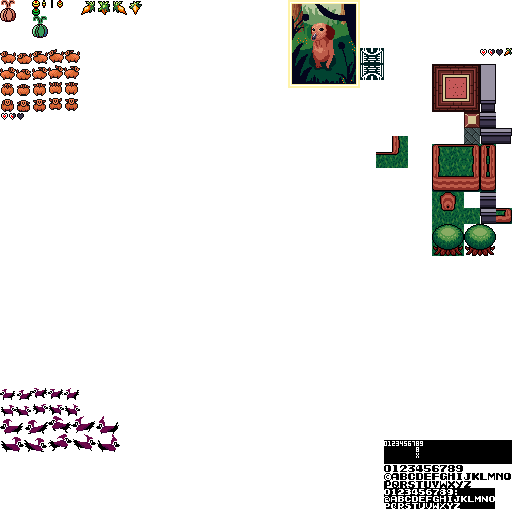
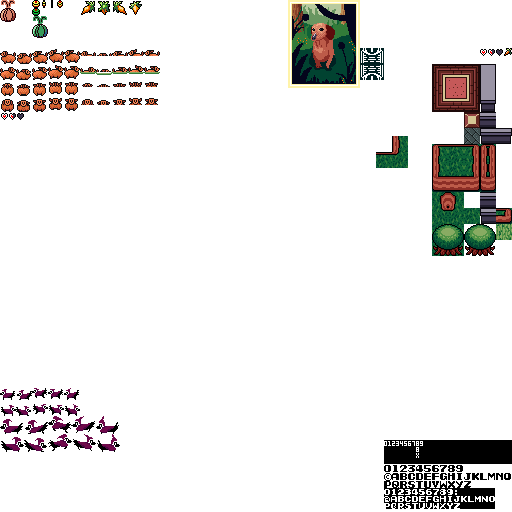
Add files via upload

Changed region(s): [[0.1562, 0.0938, 0.3125, 0.2188], [0.9688, 0.4375, 1.0, 0.4688]]

diff --git a/TileAndLevel.js b/TileAndLevel.js
@@ -10,19 +10,32 @@
 var levelData = [
 	[ //world 0
 		[//level 0
-			"4040404040404111",
-			"0040000224040111",
+			"1111111111111111",
+			"1111030111404001",
+			"1000000111000001",
+			"1040040000000001",
+			"1000000004000001",
+			"1000000040400001",
+			"1030400004000000",
+			"103000000004000",
+			"1030114000000001",
+			"1111111111111111",
+			"lost_woods"
+		],
+		[//level 1
+			"1111111111111111",
+			"1100333224040111",
 			"1104000220004111",
-			"1130400022000001",
-			"1105040002200000",
-			"1100004000000000",
-			"1000000000600404",
-			"1030303000004040",
+			"1130400025000001",
+			"1100040000000000",
+			"1105004000000000",
+			"0000000000001111",
+			"0030303000001111",
 			"1000000404040404",
 			"4040404040404040",
 			"lost_woods"
 		],
-		[//level 1
+		[//level 2
 			"1111111111111111",
 			"1100000000000111",
 			"1100333300000111",
@@ -59,7 +72,7 @@ class TileManager { //helper methods for Tile class.
 		this.addTheme("red_castle",432,64);
 		this.addTheme("lost_woods",432,144);
 		this.theme = this.getTheme();
-		this.numsLikeWalls = "14"; //which types of objects are treated as walls in getCostumeName();
+		this.numsLikeWalls = "1"; //which types of objects are treated as walls in getCostumeName();
 	}
 	
 	getCostume = function(row,col) {
@@ -130,7 +143,6 @@ class TileManager { //helper methods for Tile class.
 
 var tileManager = new TileManager();
 
-
 	class Tile extends Sprite{
 		constructor(x,y,costumeName,solid) {
 			super();
@@ -164,7 +176,7 @@ class Level {
 		console.log("level.init()");
 		
 		//resetting other objects
-		coins.coins = [];
+		coins.objs = [];
 		enemies.enemies = [];
 		
 		//resetting internal stuff
@@ -190,20 +202,26 @@ class Level {
 					
 				}
 				if (cell == 3) {
-					coins.addCoin(new Coin(col * 16,row * 16 + game.window.tly,1));
+					coins.add(new Coin(col * 16,row * 16 + game.window.tly,1));
 				}				
 				if (cell == 4) {
 					this.tiles[this.tiles.length - 1].solid = true;
 					this.tiles[this.tiles.length - 1].setSize(32,32);
-				this.tiles[this.tiles.length - 1].addCostume("tree",432,224,32,32);
-				this.tiles[this.tiles.length - 1].addCostume("tree_clear_bg",464,224,32,32);
-				this.tiles[this.tiles.length - 1].setCurrentCostume("tree");
+					this.tiles[this.tiles.length - 1].setHitbox(0,3,32,29);
+					
+					this.tiles[this.tiles.length - 1].addCostume("tree",432,224,32,32);
+					this.tiles[this.tiles.length - 1].addCostume("tree_clear_bg",464,224,32,32);
+					this.tiles[this.tiles.length - 1].setCurrentCostume("tree");
 				}
 				if (cell == 5) {
 					enemies.addEnemy(new JumpingKaidi(col * 16,row * 16 + game.window.tly));
 				}
 				if (cell == 6) {
 					enemies.addEnemy(new BigJumpingKaidi(col * 16,row * 16 + game.window.tly));
+				}
+				if (cell == 7) {
+					this.tiles[this.tiles.length - 1].addCostume("grass_tile",496,224,16,16);
+					this.tiles[this.tiles.length - 1].setCurrentCostume("grass_tile");
 				}
 			}
 		}

diff --git a/player.js b/player.js
@@ -9,8 +9,7 @@ class Player extends MovingSprite {
 		this.speed = 2;
 		this.size = 1;
 		this.setHP(3,3);
-		this.hitbox.tly = 4;
-		this.hitbox.height = 12;
+		this.setHitbox(1,8,14,12);
 		this.canLeaveScreen = true;
 		// ANIMATIONS ///////////////////////////////////////
 		this.addCostume("left_walk_0",0,48,16,16);
@@ -21,9 +20,21 @@ class Player extends MovingSprite {
 		this.addAnimation("right_walk",16,64,16,16,4,2);
 		this.addAnimation("up_walk",16,80,16,16,4,2);
 		this.addAnimation("down_walk",16,96,16,16,4,2);
+		/*
+		this.addCostume("grass_left_walk_0",64,48,16,16);
+		this.addCostume("grass_right_walk_0",64,64,16,16);
+		this.addCostume("grass_up_walk_0",64,80,16,16);
+		this.addCostume("grass_down_walk_0",64,96,16,16);
+		this.addAnimation("grass_left_walk",80,48,16,16,4,2);
+		this.addAnimation("grass_right_walk",80,64,16,16,4,2);
+		this.addAnimation("grass_up_walk",80,80,16,16,4,2);
+		this.addAnimation("grass_down_walk",80,96,16,16,4,2);
+		*/
+		
 		this.setCurrentCostume("right_walk_0");
 		this.visible = true;
 		this.invisLength = 60;
+		this.costumePrefix = "";
 		
 	}
 	
@@ -59,18 +70,18 @@ class Player extends MovingSprite {
 		if (oldv[0] != this.xv || oldv[1] != this.yv) { //if direction has changed
 		
 			if (this.xv > 0) {
-				this.setAnimation("right_walk");
+				this.setAnimation(this.costumePrefix + "right_walk");
 			} else if (this.xv < 0) {
-				this.setAnimation("left_walk");
+				this.setAnimation(this.costumePrefix + "left_walk");
 			}
 			else if (this.yv > 0) {
-				this.setAnimation("down_walk");
+				this.setAnimation(this.costumePrefix + "down_walk");
 			}
 			else if (this.yv < 0) {
-				this.setAnimation("up_walk");
+				this.setAnimation(this.costumePrefix + "up_walk");
 			} else {
 				this.animationActive = -1;
-				this.setCurrentCostume(nom + "_0");
+				this.setCurrentCostume(this.costumePrefix + nom + "_0");
 			}
 			
 
@@ -94,6 +105,7 @@ class Player extends MovingSprite {
 	
 	process = function() {
 		//console.log("player.process() called");
+		this.costumePrefix = "";
 		this.tick();
 		this.invisFrames();
 		this.healthProcess();

diff --git a/sprites.js b/sprites.js
@@ -19,7 +19,7 @@ class Sprite { //an assumption this class makes is that all costumes will be the
 	canLeaveScreen = false;
 	animations = [];
 	dead = false;
-	hitbox = {"tly":this.y,"w":this.width,"h":this.height}; //used so that the player's head can peep in front of walls sometimes
+	hitbox = {"x":0,"y":0,"w":this.width,"h":this.height}; //used so that the player's head can peep in front of walls sometimes
 	visible = true;
 	solid = false; //if true, MovingSprites can't overlap with it
 	
@@ -150,16 +150,24 @@ class Sprite { //an assumption this class makes is that all costumes will be the
 		}
 	}
 	
-	tick = function() { //use super() to call this method in any subclasses of Sprite - contains all frame-to-frame processes necessary
+	setHitbox = function(x,y,width,height) {
+		this.hitbox.x = x;
+		this.hitbox.y = y;
+		this.hitbox.width = width;
+		this.hitbox.height = height;
+	}
+	
+	tick = function() { //use this.tick() to call this method in any subclasses of Sprite - contains all frame-to-frame processes necessary
+		//this.updateHitbox();
 		this.animationProcess();
 	}
 	
 	isTouching = function(other) {
 		return (
 			this.x < other.x + other.width &&
-			this.x + this.width > other.x &&
-			this.y < other.y + other.height &&
-			this.y + this.height > other.y
+			this.x + this.width > other.x + other.hitbox.x &&
+			this.y + this.hitbox.y < other.y + other.height &&
+			this.y + this.hitbox.y + this.hitbox.height > other.y + other.hitbox.y
 		);
 	}
 }

diff --git a/CollisionHandler.js b/CollisionHandler.js
@@ -7,11 +7,11 @@ class CollisionHandler {
 	
 	playerCoin = function() {
 		//console.log("");
-		for (let i = 0; i < coins.coins.length; i++) {
+		for (let i = 0; i < coins.objs.length; i++) {
 			//console.log(player.isTouching(coins.coins[i]));
-			if (player.isTouching(coins.coins[i])) {
+			if (player.isTouching(coins.objs[i])) {
 				//console.log("coin found");
-				coins.coins.splice(i,1);
+				coins.objs.splice(i,1);
 				saveFile.carrots++;
 				return;
 			}
@@ -35,8 +35,15 @@ class CollisionHandler {
 	}
 	
 	wall = function(sprite) {
+		
 		for (let i = 0; i < level.tiles.length; i++) {
 			if (sprite == player) {
+				let touchingGrass = sprite.isTouching(level.tiles[i]) && level.tiles[i].currentCostume.name.includes("grass_tile");
+				if (touchingGrass) {
+					//player.costumePrefix = "grass_";
+				} else {
+					player.costumePrefix = "";
+				}
 				//sprite.moveByVel();
 				let touching = sprite.isTouching(level.tiles[i]) && level.tiles[i].solid;
 				//

diff --git a/Coin.js b/Coin.js
@@ -16,35 +16,39 @@ class Coin extends Sprite {
 	
 }
 
-class CoinCollection {
+class ObjectHandler {
 	constructor()
 	{
-		this.coins = [];
+		this.objs = [];
 	}
 	
-	addCoin = function(coinObj)
+	add = function(obj)
 	{
-		this.coins.push(coinObj);
+		this.objs.push(obj);
 	}
 	
 	clear = function()
 	{
-		this.coins = [];
+		this.objs = [];
 	}
 	
 	
 	process = function()
 	{
-		for (let i = 0; i < this.coins.length; i++) {
-			this.coins[i].tick();
+		for (let i = 0; i < this.objs.length; i++) {
+			this.objs[i].tick();
 		}
 	}
 	
 	
 	draw = function()
 	{
-		for (let i = 0; i < this.coins.length; i++) {
-			this.coins[i].draw();
+		for (let i = 0; i < this.objs.length; i++) {
+			this.objs[i].draw();
 		}
 	}
+}
+
+class Bush {
+	
 }

diff --git a/main.js b/main.js
@@ -92,8 +92,8 @@ function draw() {
 
 var mainloop = setInterval(function() {
 	
-	draw();
 	process();
+	draw();
 	
 	if (1 == 0) {
 		clearInterval(mainloop);

diff --git a/Enemy.js b/Enemy.js
@@ -2,6 +2,7 @@ class Enemy extends MovingSprite {
 	constructor() {
 		super();
 		this.type = "enemy";
+		this.setHitbox(0,0,this.width,this.height);
 	}
 	
 

diff --git a/Variables.js b/Variables.js
@@ -1,3 +1,3 @@
 
 var player = new Player();
-var coins = new CoinCollection();
+var coins = new ObjectHandler();
